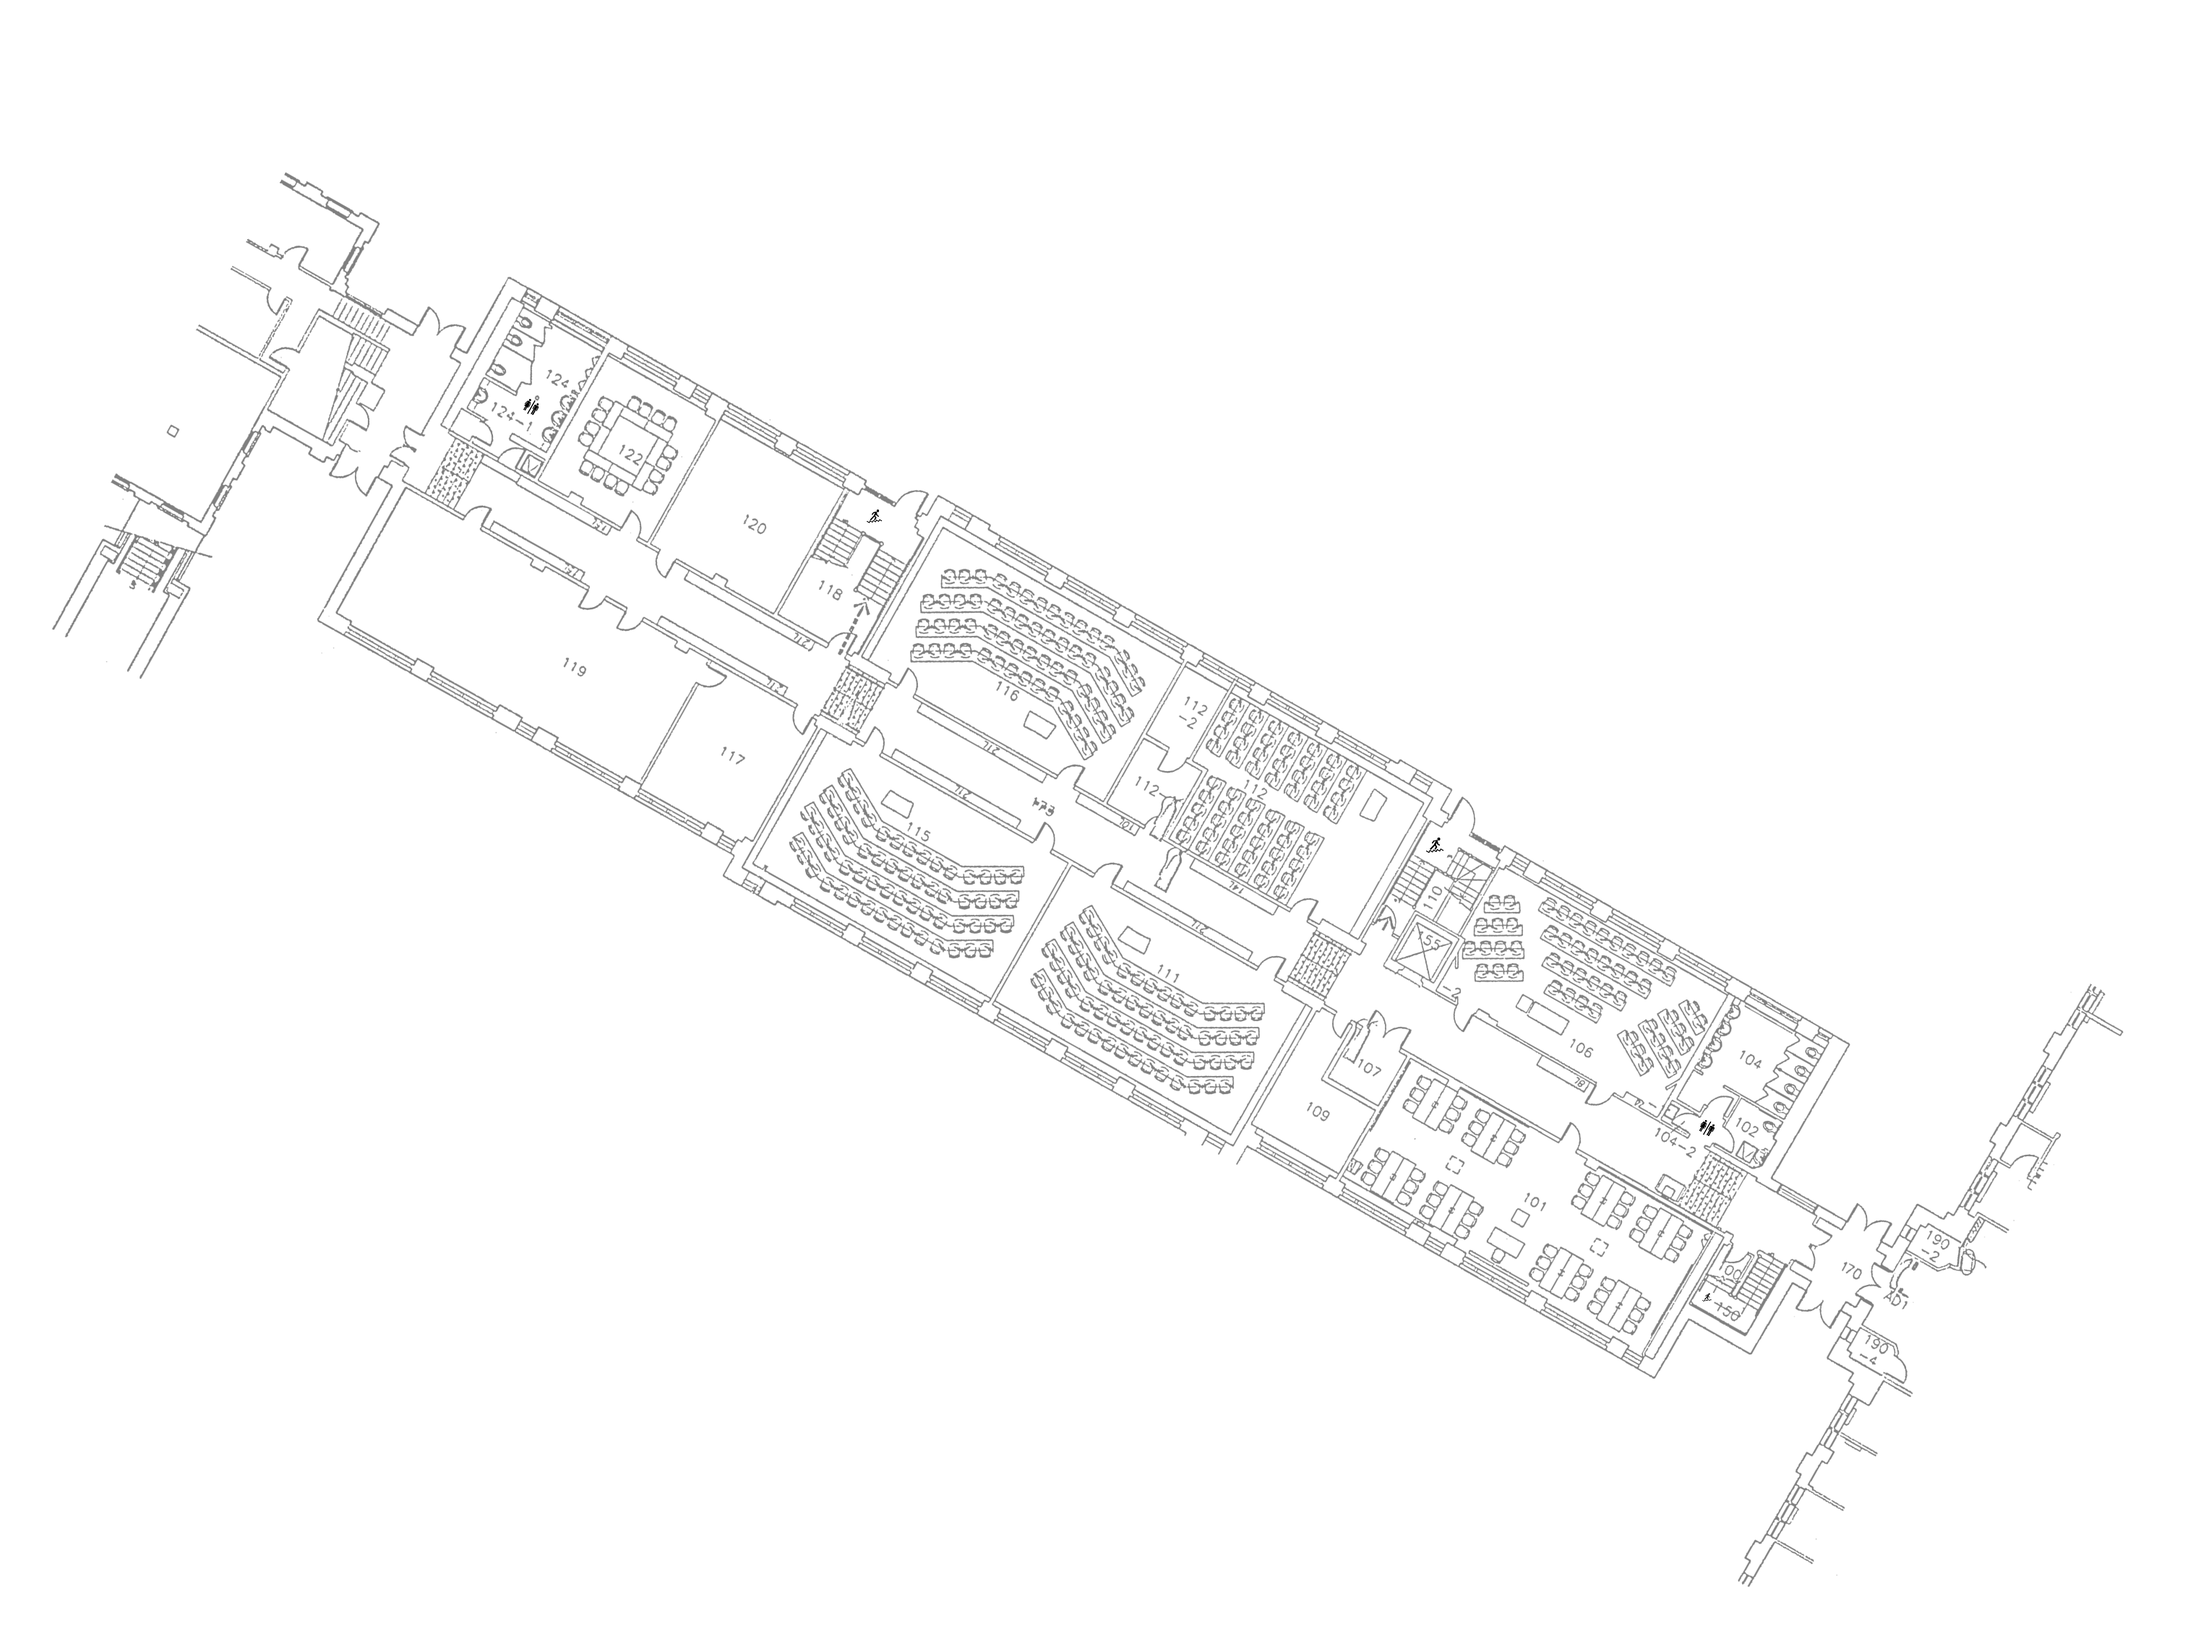
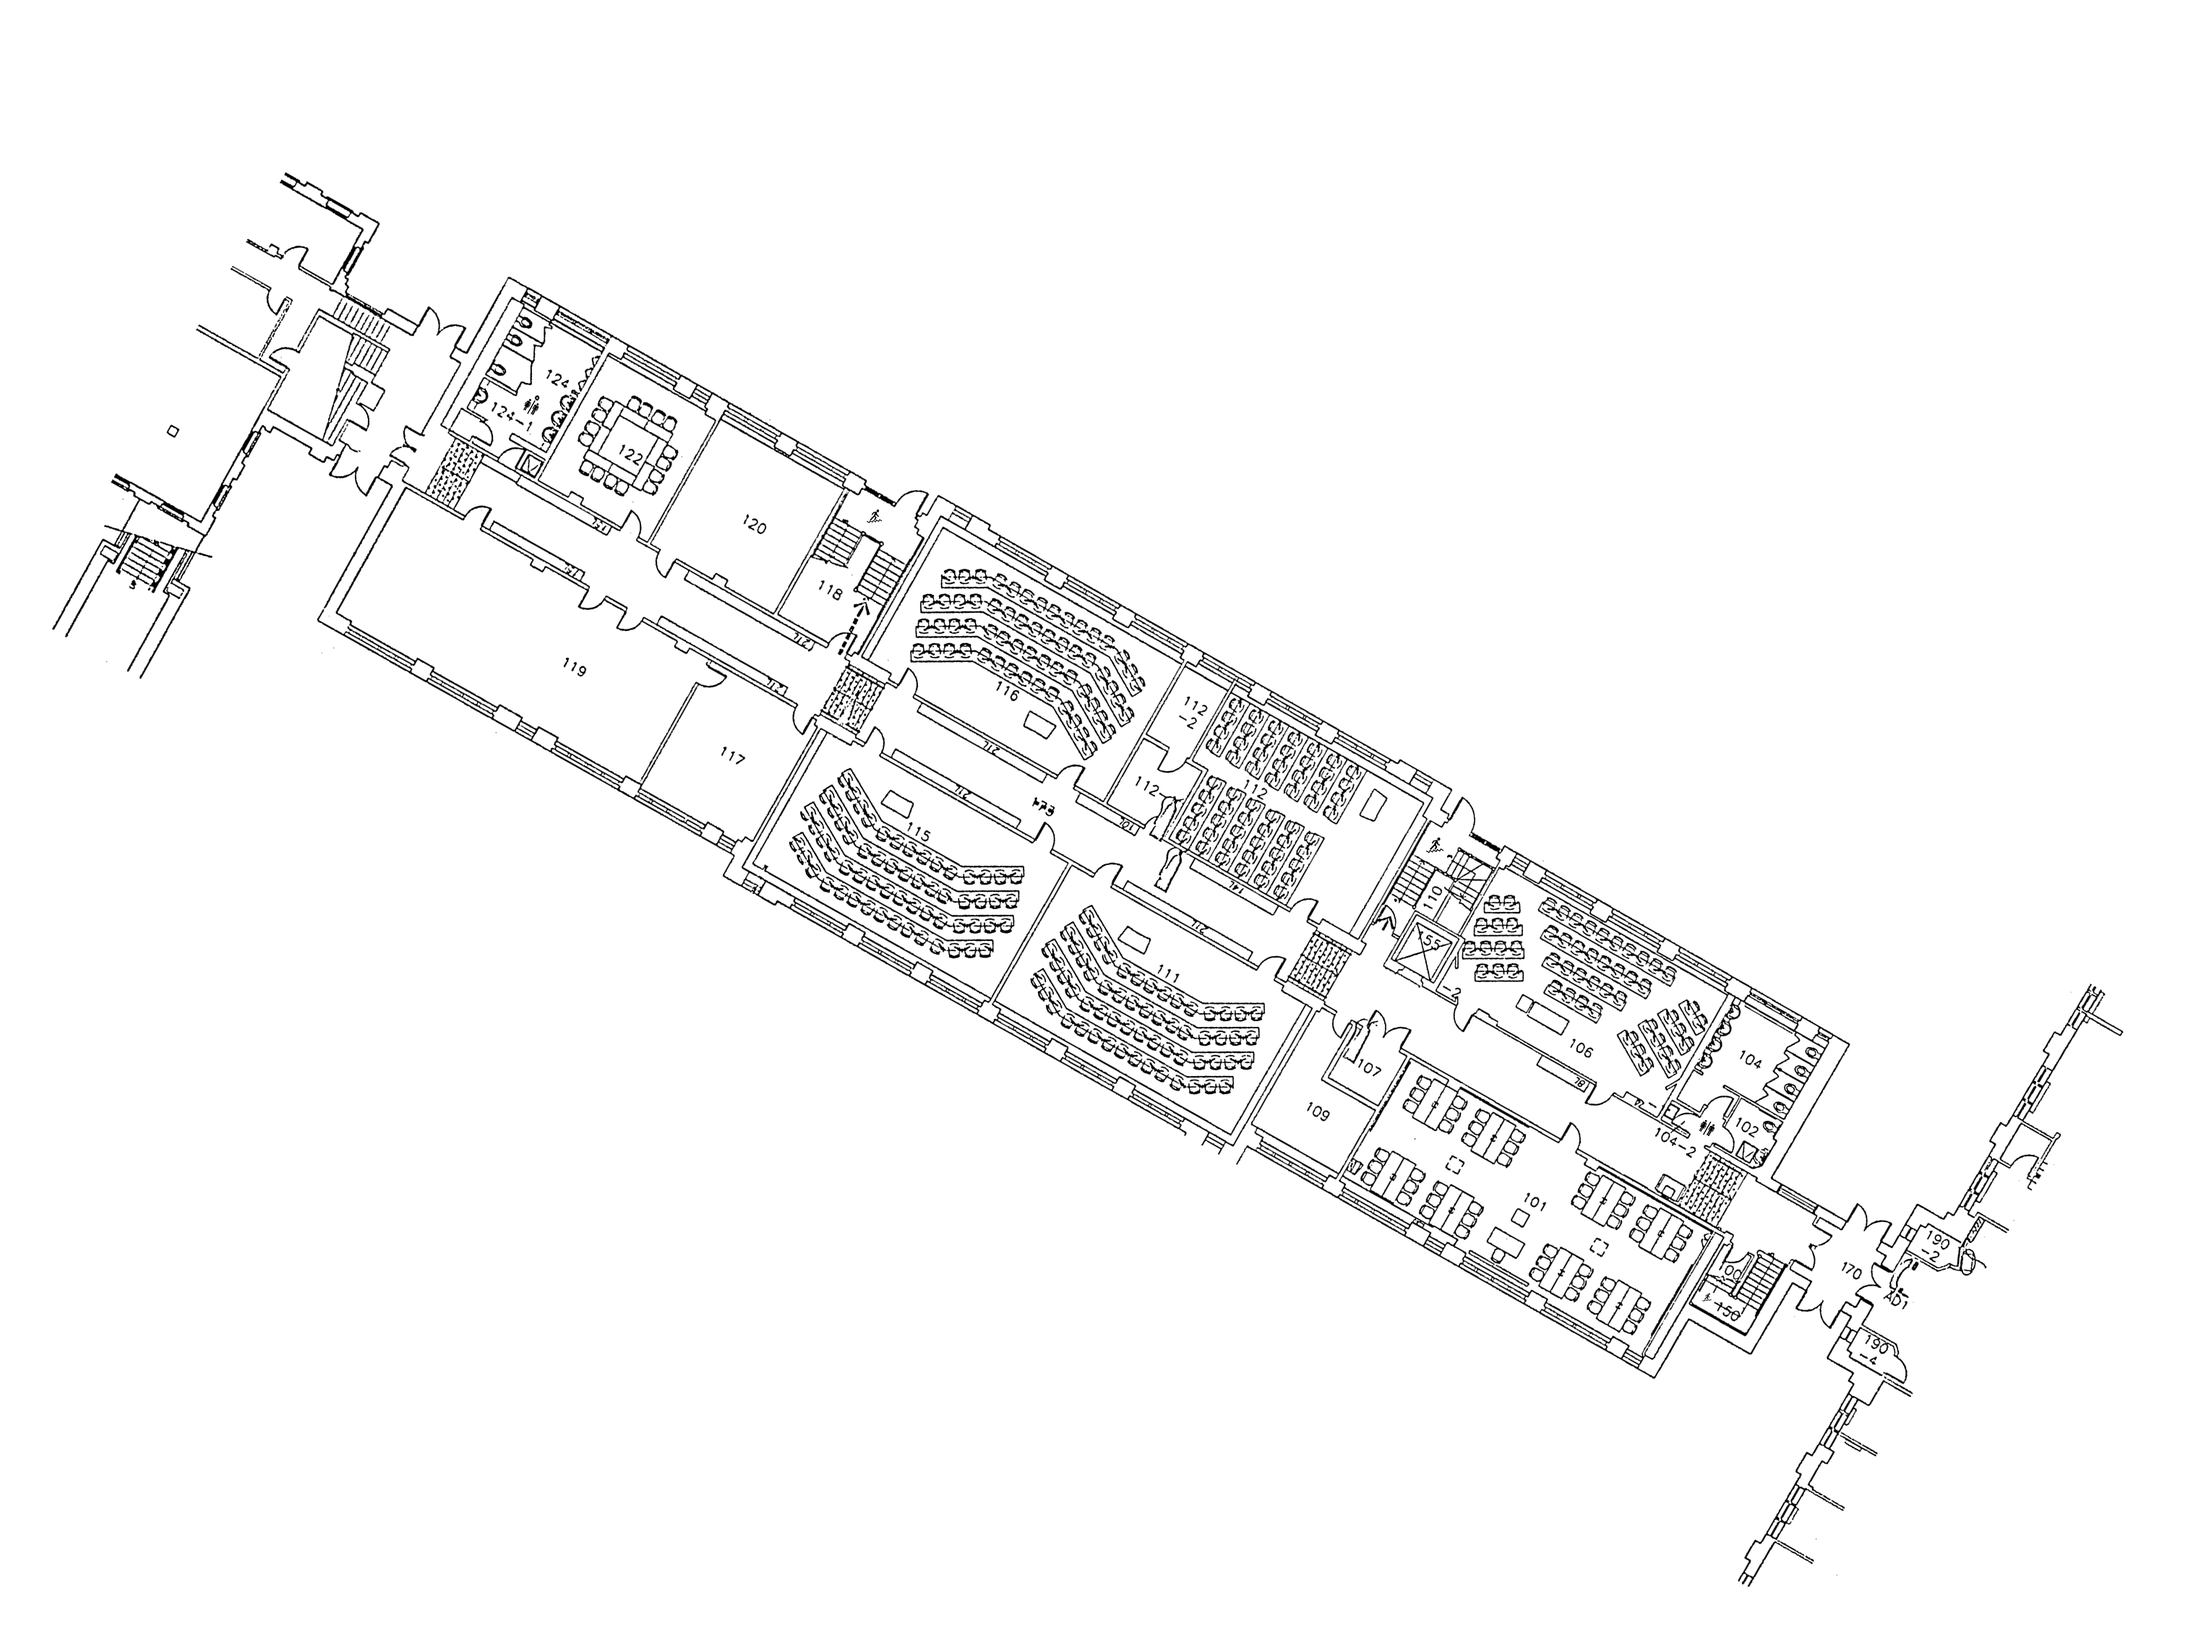
Removal of the grid
Removed the grid that serves to help us calibrate the coordinates and updated the floorplan with one that has full opacity

diff --git a/FindMyClass/components/BuildingMap.js b/FindMyClass/components/BuildingMap.js
@@ -640,14 +640,7 @@ export default function BuildingMap({
               />)
                 }
 
-                {gridCC.map((line, index) => (
-                              <Polyline
-                                key={index}
-                                coordinates={line}
-                                strokeWidth={1}
-                                strokeColor="rgba(0, 0, 255, 0.5)" // ✅ Light blue for debug
-                              />
-                            ))}
+             
       </MapView>
       
       {/* Floor Selector - Only visible when zoomed in on Hall Building */}
